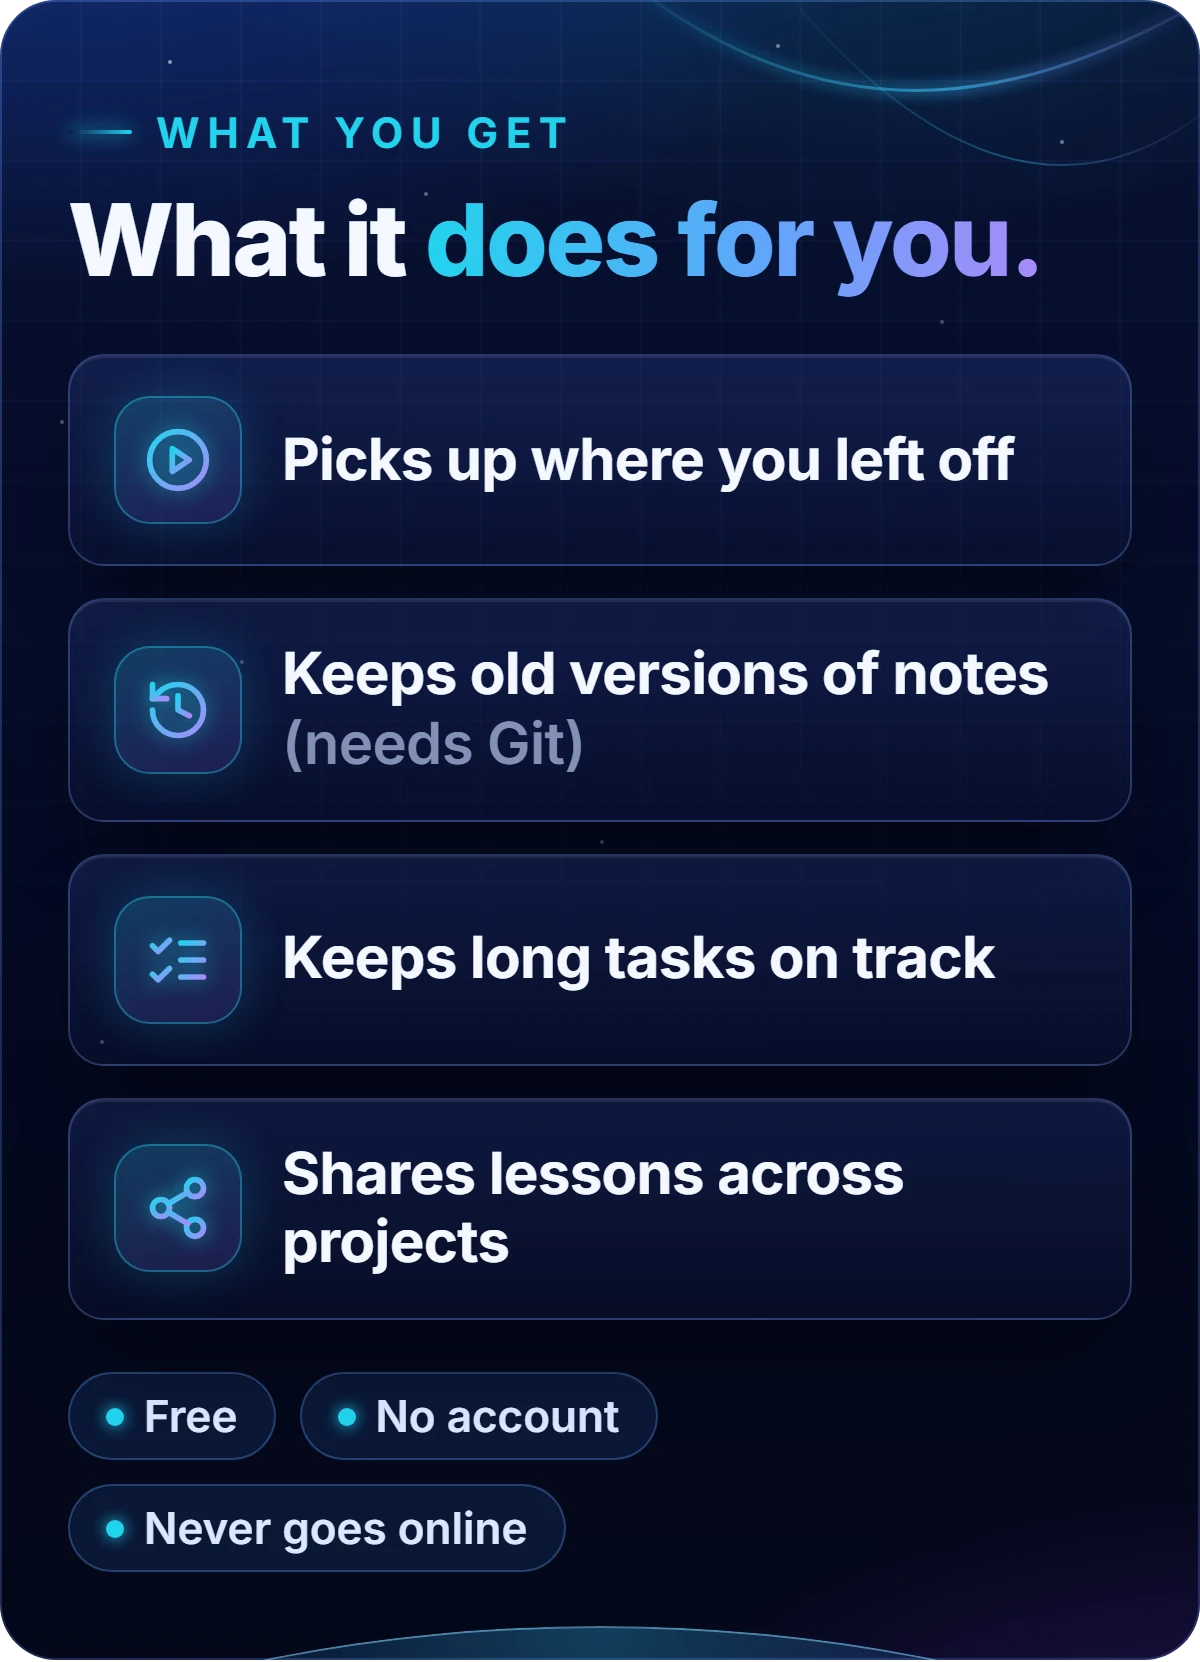
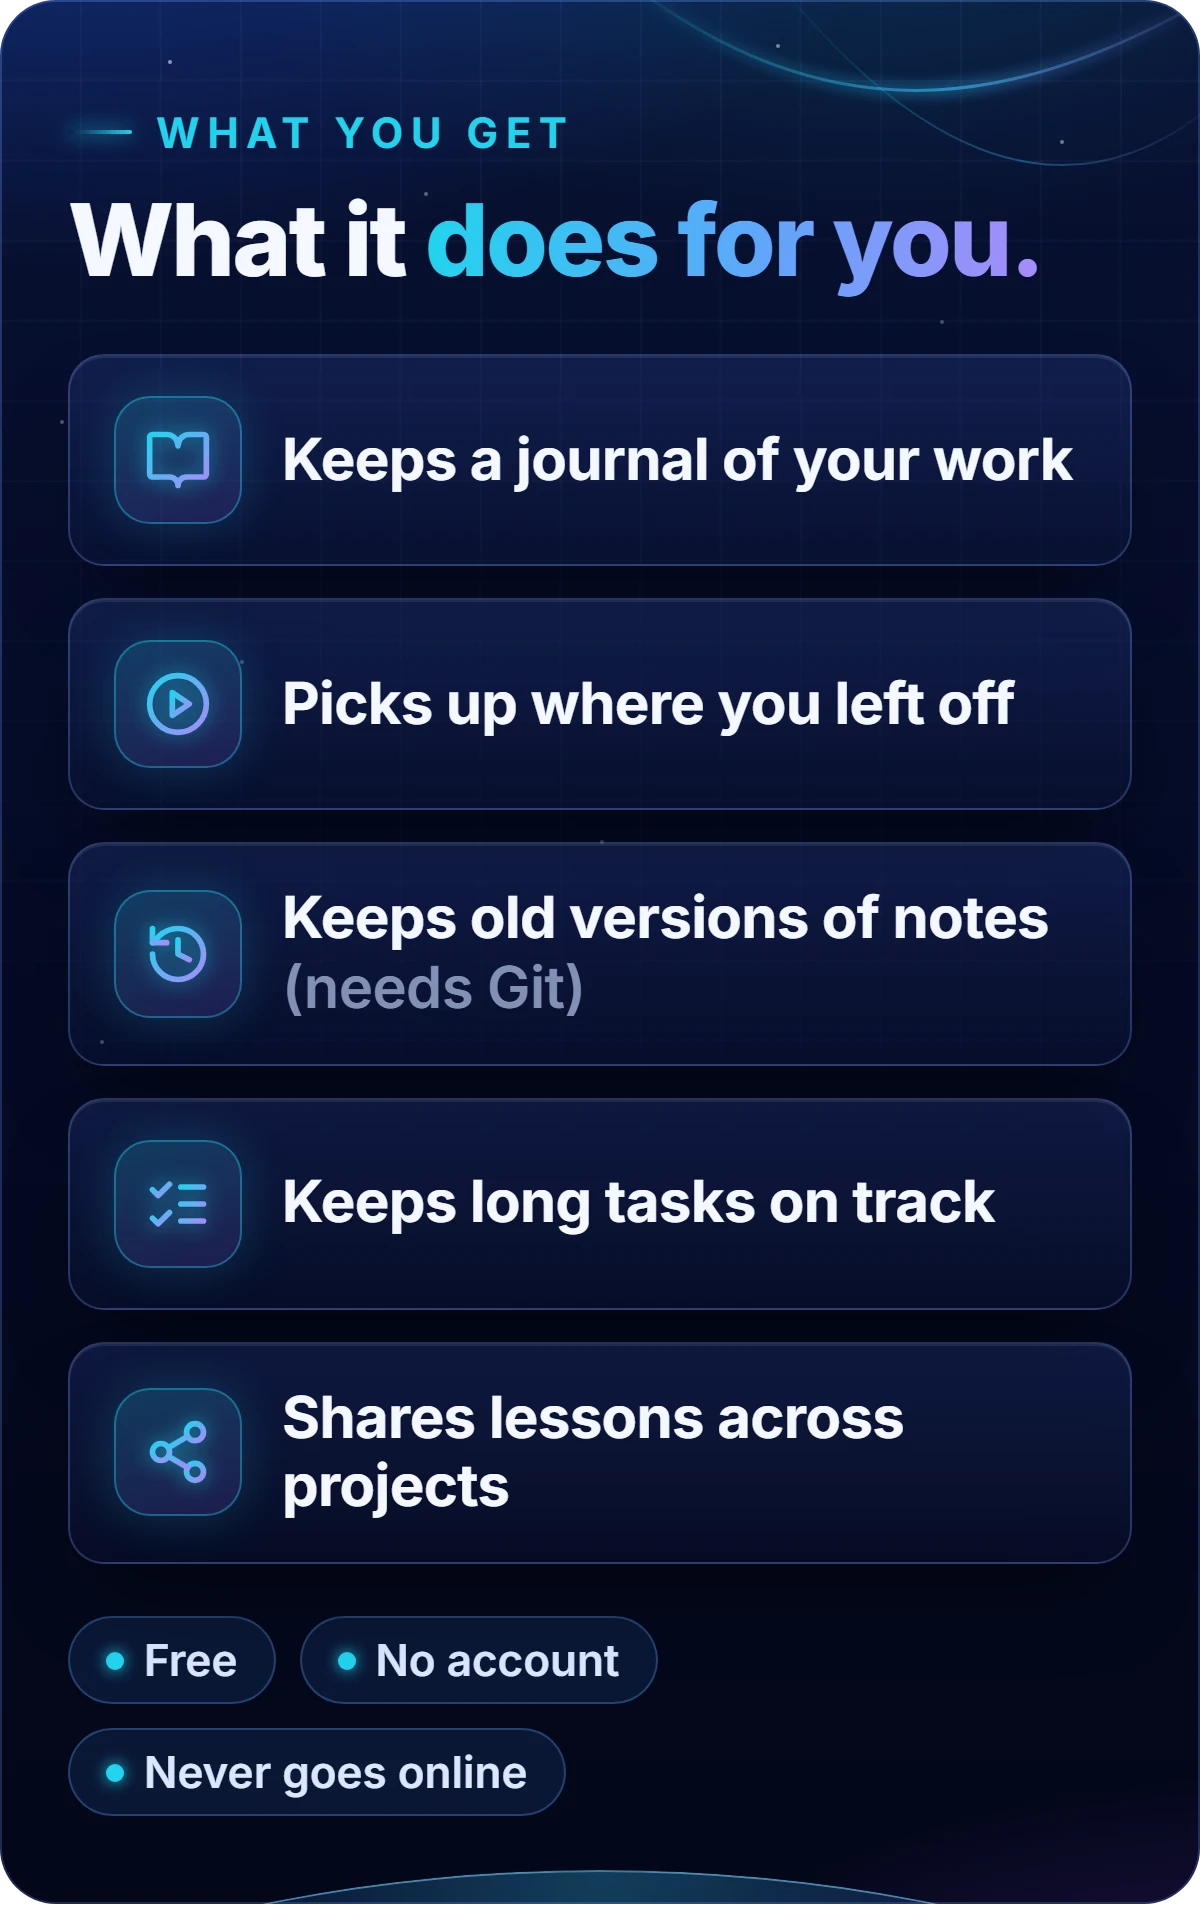
README: the what-you-get picture shows the journal
The picture listed four things and left out the journal, the first row
of the table above it and the first thing the project page says. It now
leads with "Keeps a journal of your work", with a book icon in the same
style; its alt text says so too. Rendered with docs/art/render.mjs; the
other three pictures come out byte for byte as committed.

diff --git a/docs/art/what-you-get.html b/docs/art/what-you-get.html
@@ -27,6 +27,10 @@
 
   <div class="items">
     <div class="glass item">
+      <div class="ico"><svg viewBox="0 0 24 24"><path d="M12 7v14"/><path d="M3 18a1 1 0 0 1-1-1V4a1 1 0 0 1 1-1h5a4 4 0 0 1 4 4 4 4 0 0 1 4-4h5a1 1 0 0 1 1 1v13a1 1 0 0 1-1 1h-6a3 3 0 0 0-3 3 3 3 0 0 0-3-3z"/></svg></div>
+      <h2>Keeps a journal of your work</h2>
+    </div>
+    <div class="glass item">
       <div class="ico"><svg viewBox="0 0 24 24"><circle cx="12" cy="12" r="10"/><path d="m10 8 6 4-6 4z"/></svg></div>
       <h2>Picks up where you left off</h2>
     </div>

diff --git a/README.md b/README.md
@@ -30,7 +30,7 @@ and lets two Claude windows on one project work without overwriting each
 other. It helps most when you come back to the same project over days or
 weeks. For a quick one-off question, you won't notice much difference.
 
-<img src="docs/what-you-get.webp" width="600" alt="What it does for you: picks up where you left off, keeps old versions of notes (needs Git), keeps long tasks on track, and shares lessons across projects. Free, no account, never goes online.">
+<img src="docs/what-you-get.webp" width="600" alt="What it does for you: keeps a journal of your work, picks up where you left off, keeps old versions of notes (needs Git), keeps long tasks on track, and shares lessons across projects. Free, no account, never goes online.">
 
 ## Install
 
